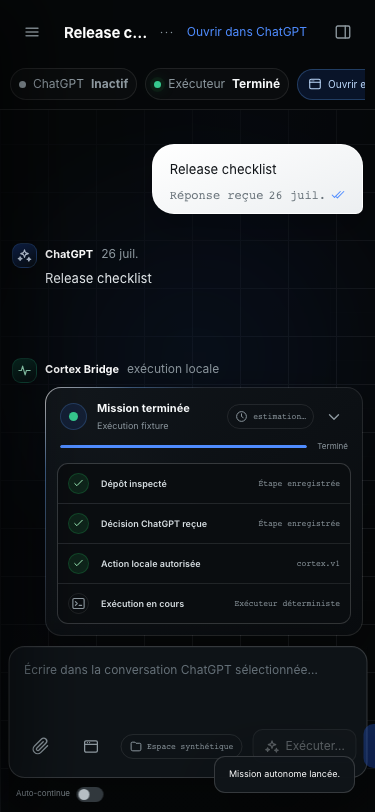
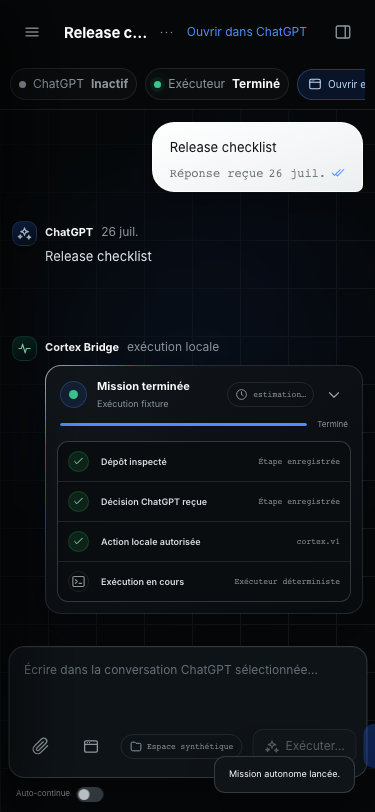
test(privacy): remove personal home fixture paths

diff --git a/frontend/components/SettingsPanel.regression-1.test.tsx b/frontend/components/SettingsPanel.regression-1.test.tsx
@@ -27,8 +27,8 @@ describe("SettingsPanel settings refresh", () => {
     };
     const fresh = {
       ...demoSettings,
-      default_workspace: "/Users/test/.local/share/cortex-bridge/workspaces",
-      browser_profile_root: "/Users/test/.local/share/cortex-bridge/browser-profiles",
+      default_workspace: "/tmp/cortex-bridge-qa/user-data/workspaces",
+      browser_profile_root: "/tmp/cortex-bridge-qa/user-data/browser-profiles",
     };
     const { rerender } = render(<SettingsPanel {...common} settings={stale} />);
 
